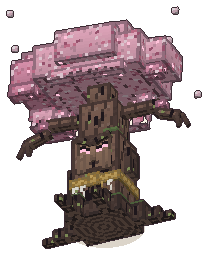
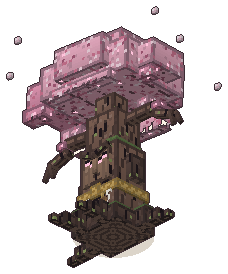
模型展示：星渊怪物改用与家具一致的 45° 斜上方视角（yaw 45° / pitch 30°）

diff --git a/models.html b/models.html
@@ -40,7 +40,7 @@
 <nav id="sidebar" aria-label="目录"></nav>
 <main class="content">
 <div class="page-head"><img class="px" src="images/art/crate.png" alt=""><div><h1>模型展示</h1><p class="lead">68 件茶屋家具与设施、13 种星渊怪物与首领的 3D 模型渲染图</p></div></div>
-<p>服务器里的 3D 模型一览：68 件茶屋家具 / 设施，和星渊秘境的 13 种怪物与首领。图片都是材质包模型的渲染图（家具为 3/4 视角，怪物为斜前上方；不是游戏截图），游戏里的光照和大小会略有不同。</p>
+<p>服务器里的 3D 模型一览：68 件茶屋家具 / 设施，和星渊秘境的 13 种怪物与首领。图片都是材质包模型的渲染图（统一 45° 斜上方视角；不是游戏截图），游戏里的光照和大小会略有不同。</p>
 <div class="callout tip"><img class="px" src="images/art/housekey.png" alt=""><div><p class="c-title">想知道怎么买、怎么摆？</p><p>家具价格、摆放规则和联动玩法见 <a href="furniture.html">茶屋家具 · 柚子家具馆</a>；怪物怎么打见 <a href="abyss.html">星渊秘境</a>。</p></div></div>
 
 <h2>茶屋家具模型</h2>
